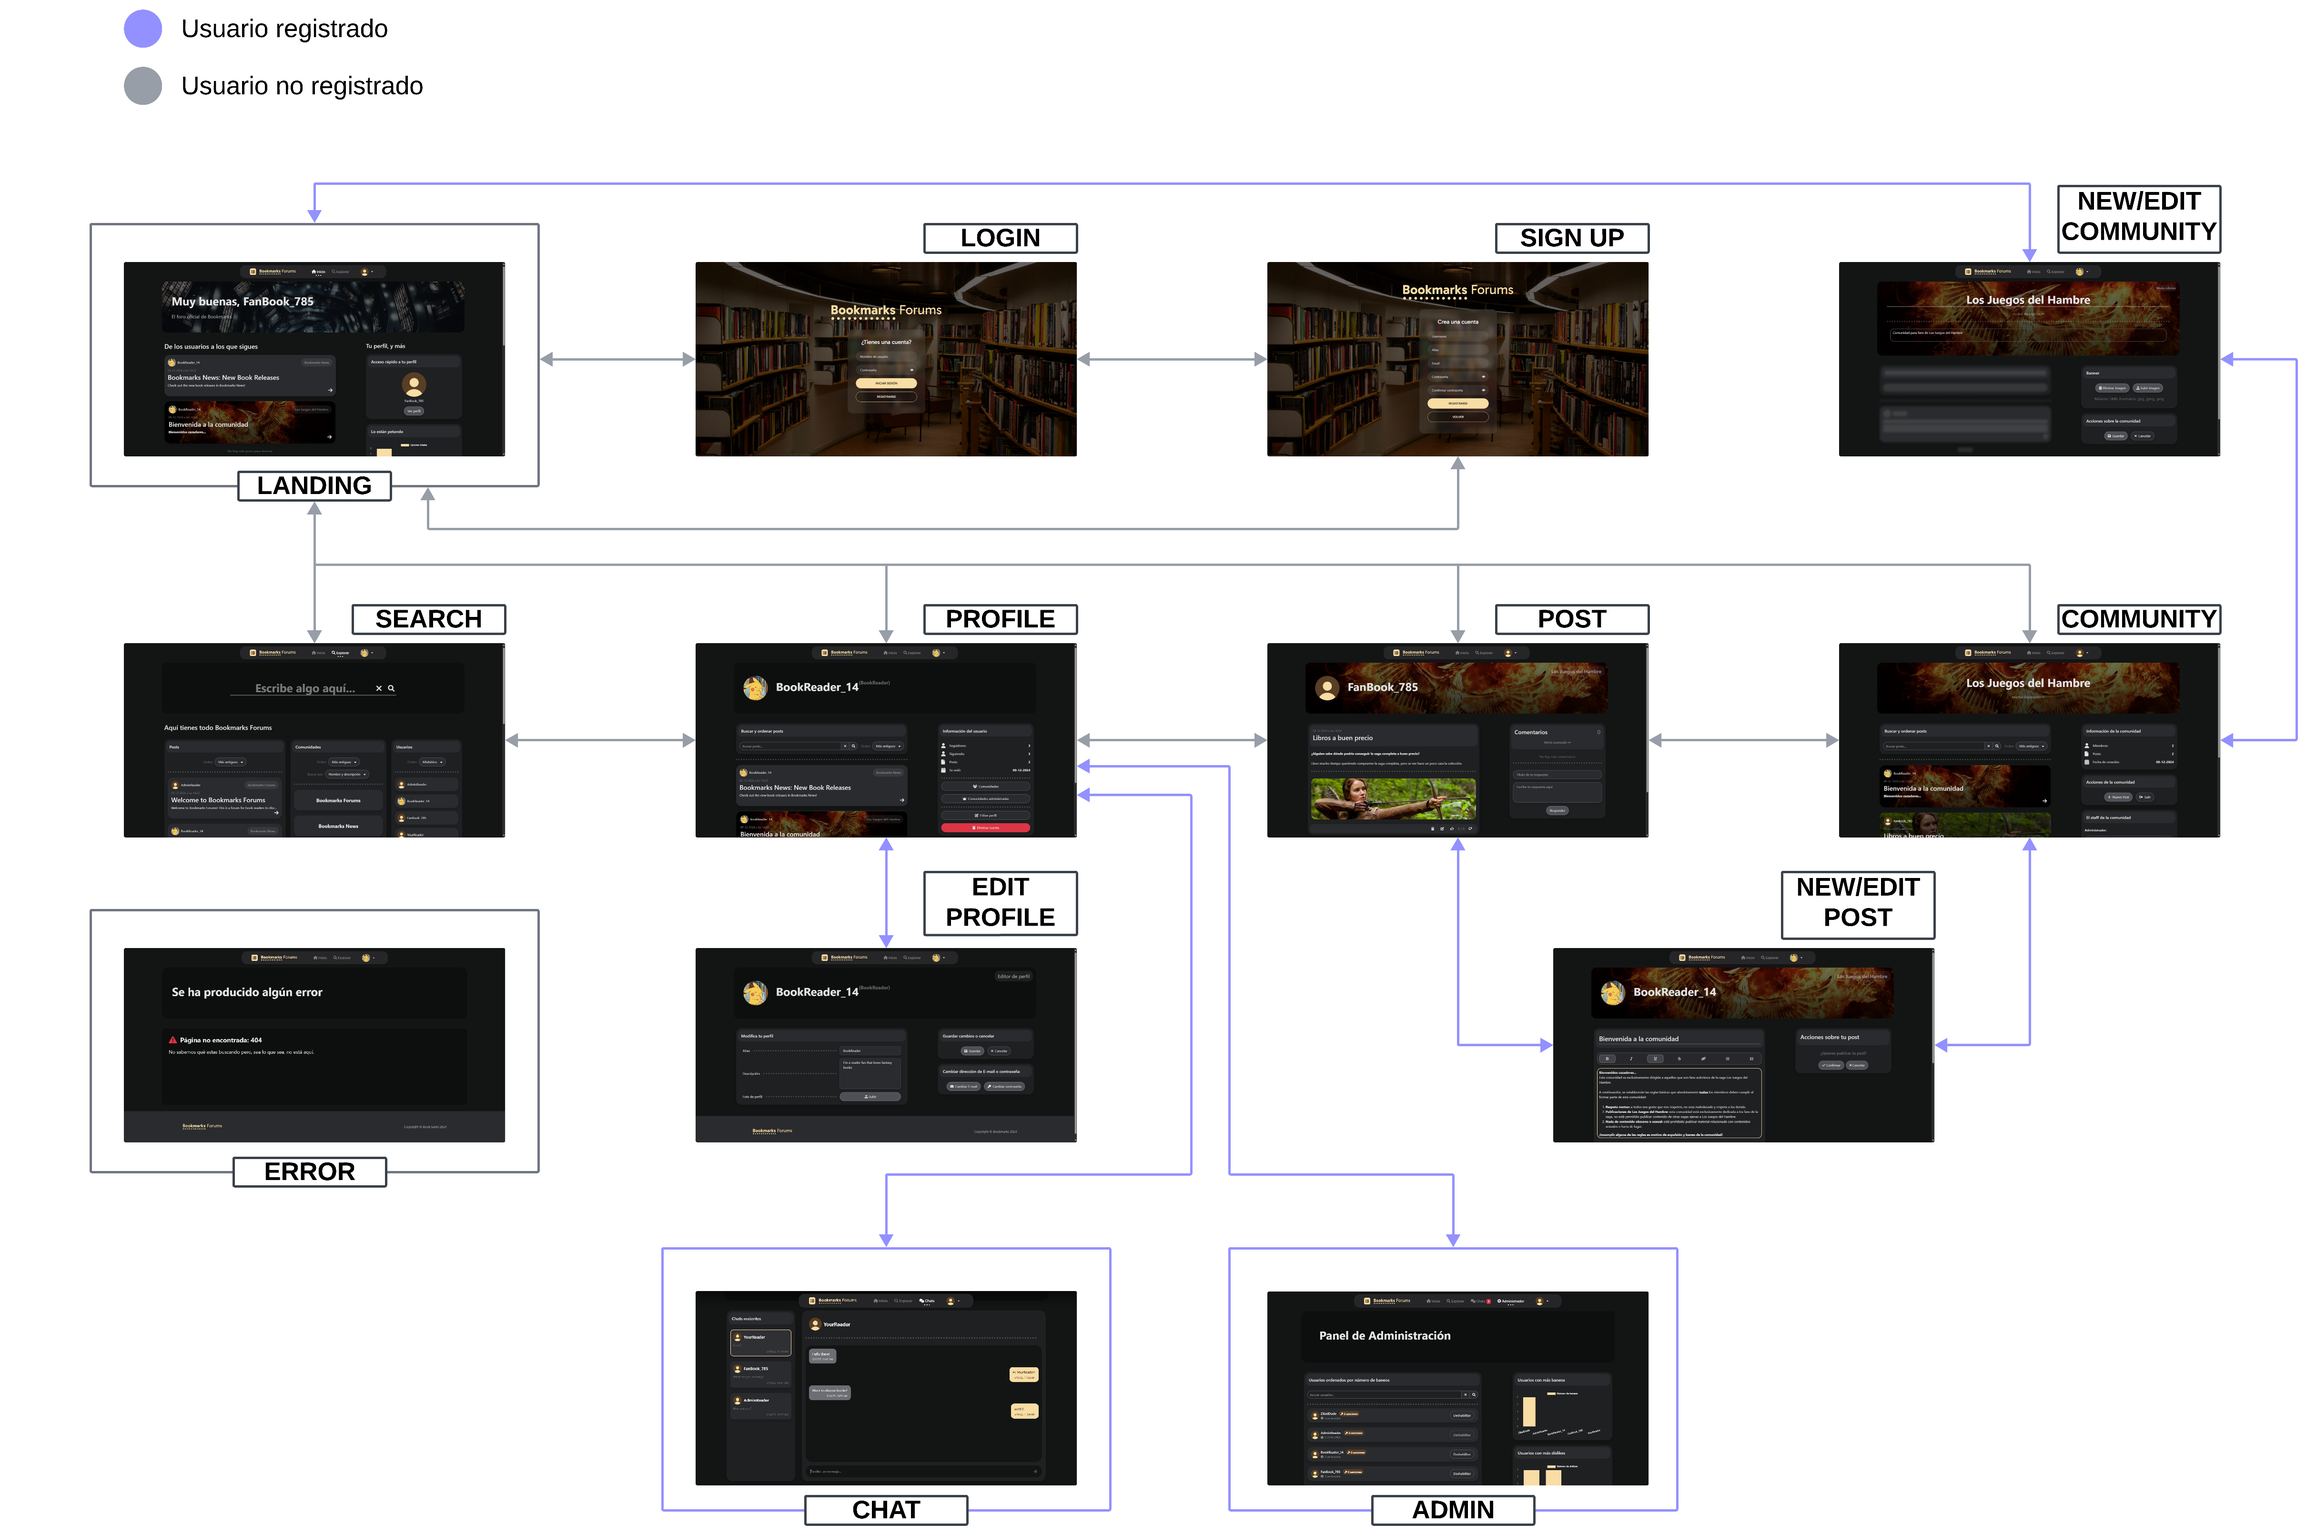
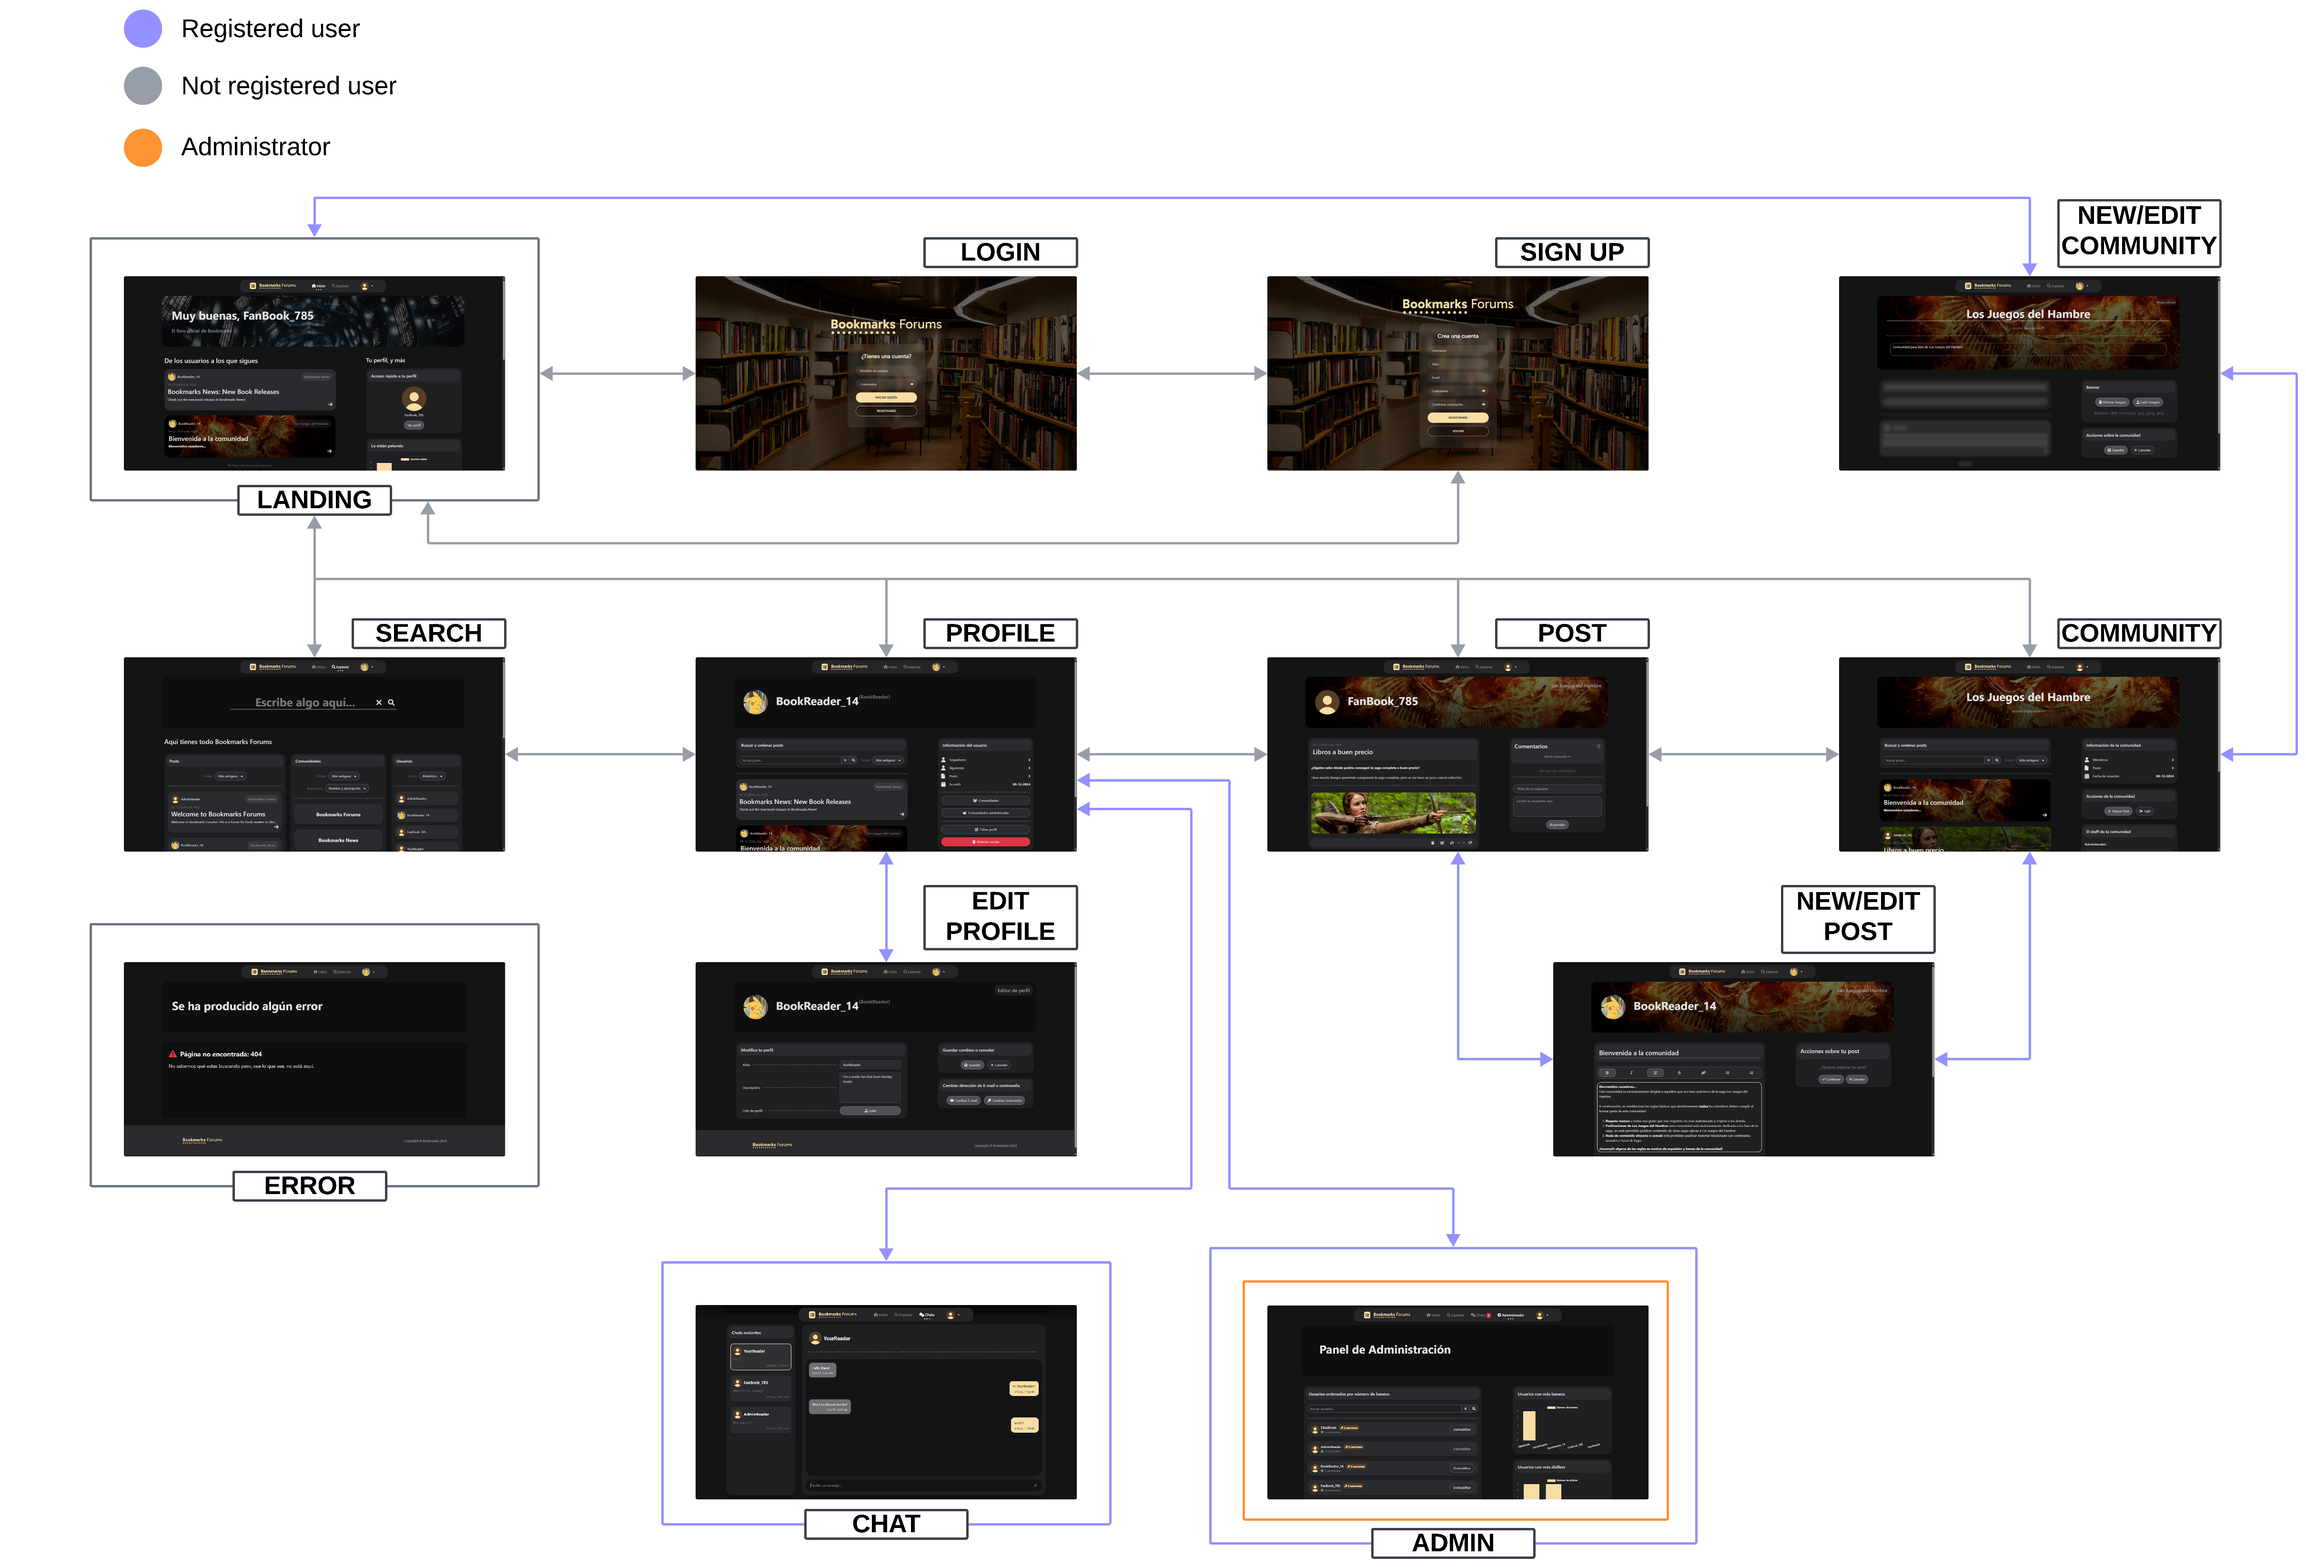
Updated README
Fixed color legends not showing correctly.

Added a clarification in the navigation diagram to let know that only Administrators can access the Administrator Page.

diff --git a/README.md b/README.md
@@ -96,11 +96,13 @@ The backend of the application is structured as follows:
 
 ![Backend Class Diagram](<Readme images/Backend Diagram.png>)
 
-- ![#808080](https://via.placeholder.com/15/808080/000000?text=+) **Grey**: entities.
-- ![#99c8ff](https://via.placeholder.com/15/99c8ff/000000?text=+) **Blue**: repositories.
-- ![#fe7070](https://via.placeholder.com/15/fe7070/000000?text=+) **Red**: services.
-- ![#fddf71](https://via.placeholder.com/15/fddf71/000000?text=+) **Yellow**: REST controllers.
-- ![#7ed886](https://via.placeholder.com/15/7ed886/000000?text=+) **Green**: other controllers.
+- `#eab6ff` Purple: Configurations.
+- `#808080` Grey: entities.
+- `#99c8ff` Blue: repositories.
+- `#fe7070` Red: services.
+- `#fddf71` Yellow: REST controllers.
+- `#7ed886` Green: other controllers.
+
 
 ### iii. Frontend (SPA) diagram
 
@@ -108,10 +110,10 @@ The frontend of the application is structured as follows:
 
 ![Frontend Class Diagram](<Readme images/Frontend Diagram.png>)
 
-- ![#eab6ff](https://via.placeholder.com/15/eab6ff/000000?text=+) **Purple**: components.
-- ![#99c8ff](https://via.placeholder.com/15/99c8ff/000000?text=+) **Blue**: services.
-- ![#fe7070](https://via.placeholder.com/15/fe7070/000000?text=+) **Red**: templates.
-- ![#7ed886](https://via.placeholder.com/15/7ed886/000000?text=+) **Green**: directives.
+- `#eab6ff` Purple: components.
+- `#99c8ff` Blue: services.
+- `#fe7070` Red: templates.
+- `#7ed886` Green: directives.
 
 ### iv. Permissions per kind of user
 
